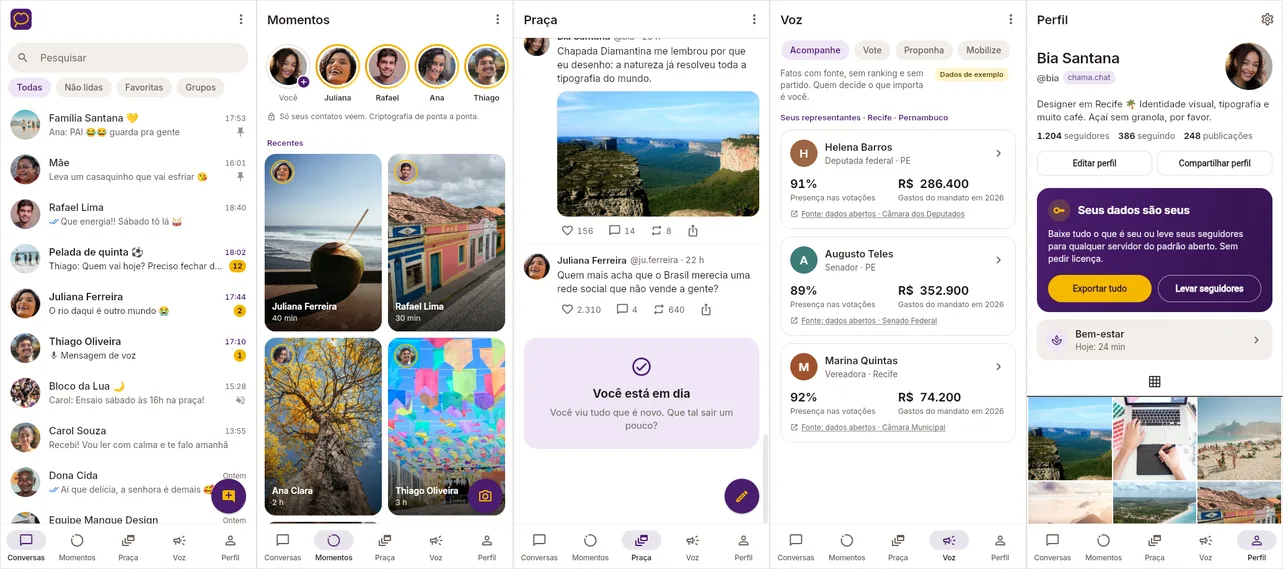
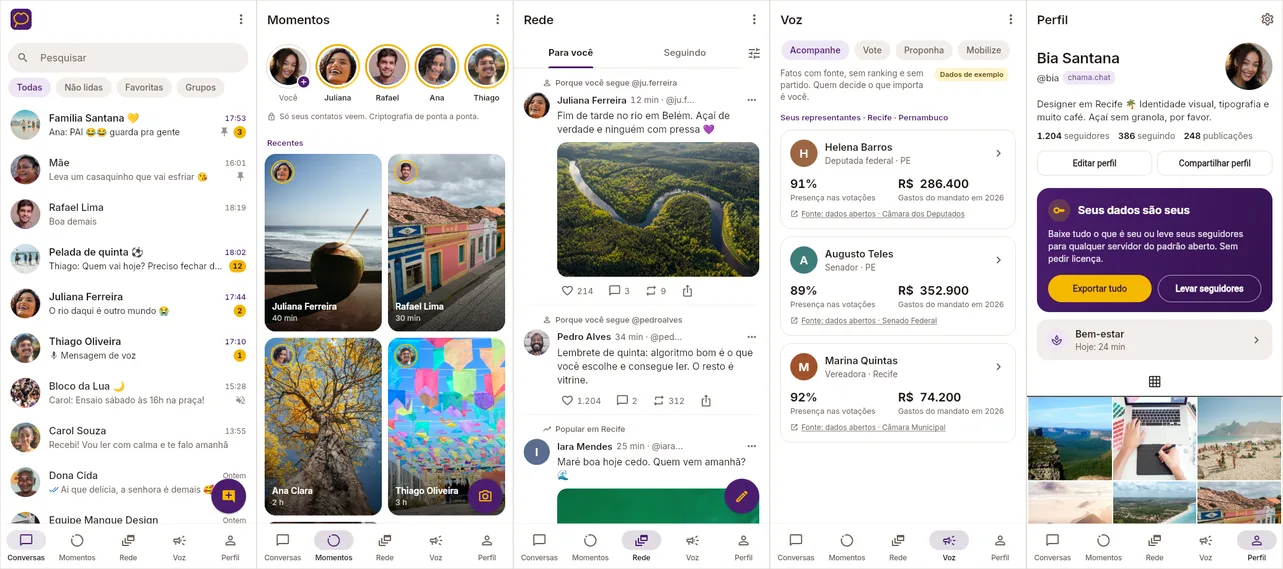
Document Rede, open recommendations and ads, and the new scenes

diff --git a/docs/desenvolvimento.md b/docs/desenvolvimento.md
@@ -326,12 +326,12 @@ WhatsApp Web:
 
 Uma versão do app com dados fictícios, para apresentações e para gravar os vídeos do
 projeto. Não precisa de servidor, já abre conectada como "Bia Santana" e mostra as cinco
-abas que o Chama terá: **Conversas**, **Momentos**, **Praça**, **Voz** e **Perfil**, além
+abas que o Chama terá: **Conversas**, **Momentos**, **Rede**, **Voz** e **Perfil**, além
 da tela **Bem-estar**. Roda só na web (as fotos ficam em `app/web/demo/`, com os créditos
 em `app/web/demo/CREDITS.md`).
 
 <p align="center">
-  <img src="imagens/demo-abas-claro.webp" alt="Modo demonstração: abas Conversas, Momentos, Praça, Voz e Perfil" width="760">
+  <img src="imagens/demo-abas-claro.webp" alt="Modo demonstração: abas Conversas, Momentos, Rede, Voz e Perfil" width="760">
 </p>
 
 ```sh
@@ -362,13 +362,29 @@ flowchart LR
   falsas de `ChatService`, `ChatSession` e companhia (`implements`), com pessoas, conversas,
   posts e momentos inventados.
 - As telas novas falam com três interfaces em `lib/services/`: `SocialService` (Momentos,
-  Praça, Perfil), `CivicService` (Voz) e `WellbeingService` (Bem-estar). Hoje só a
+  Rede, Perfil), `CivicService` (Voz) e `WellbeingService` (Bem-estar). Hoje só a
   demonstração implementa essas interfaces. No app de produção, `Deps.social`,
   `Deps.civic` e `Deps.wellbeing` ficam vazios e a tela inicial continua com as abas atuais.
 - **Voz** é apartidária: fatos com fonte ("Fonte: dados abertos"), nada ordenado por
   relevância, nenhuma cor de partido. Na demonstração, todos os políticos, projetos e
   números são inventados e as telas mostram "Dados de exemplo".
-- **Bem-estar**: a Praça tem fim ("Você está em dia"), há limite diário com um cartão de
+- **Rede** tem duas abas. **Para você** recomenda, mas nunca em segredo: cada item diz por
+  que está ali ("Porque você segue @ju.ferreira", "Perto de você · Boa Vista", "Tema:
+  comida"), e "Por que estou vendo isto?" tem "Mostrar mais/menos disso" e liga ou desliga o
+  tema. Em **Escolha seu algoritmo** a pessoa troca o algoritmo (Padrão Chama, Perto de você,
+  Só quem eu sigo ou feeds feitos pela comunidade) e os temas. **Seguindo** mostra só quem
+  você segue, do mais novo ao mais antigo, e termina em "Você está em dia".
+- A Rede mistura posts de texto, de foto e **vídeos curtos verticais (reels)**, que tocam
+  sem som enquanto estão na tela (pacote `video_player`) e abrem em tela cheia. Negócios
+  locais têm perfil comercial; há post em parceria (dois autores), selo "Parceria paga com
+  @marca" e anúncio marcado "Patrocinado", no máximo 1 a cada 10 itens
+  (`app/lib/feed/ads.dart`, com teste), escolhido só pelo tema, nunca pelas conversas.
+  Nunca há anúncio nas conversas nem nos Momentos. Marcas e criadores da demonstração são
+  inventados. Os vídeos vêm do Pixabay e do Pexels (créditos em `app/web/demo/CREDITS.md`).
+- O nome da aba Rede ainda não está decidido. Ele vem de uma chave só, `tabFeed`, em
+  `app/lib/l10n/app_pt.arb` (e `app_en.arb`): mude ali e a barra de baixo, o título e o
+  registro das cenas acompanham.
+- **Bem-estar**: a Rede tem fim ("Você está em dia", em Seguindo), há limite diário com um cartão de
   pausa, Modo descanso, Resumo de notificações, esconder curtidas e modo cinza. Sem
   sequências, medalhas ou culpa.
 - `lib/main.dart` nunca importa `lib/demo/`.
@@ -383,10 +399,11 @@ começo da pausa final de 2 s.
 |---|---|---|---|
 | `conversa` | `/?cena=conversa` | ~29 s | conversa privada, aviso de criptografia, foto, áudio, tiques azuis, reação |
 | `momentos` | `/?cena=momentos` | ~24 s | anéis, momento aberto, troca de pessoa, resposta |
-| `praca` | `/?cena=praca` | ~29 s | "sem algoritmo", curtir, responder, repostar, publicar com foto, "Você está em dia" |
+| `praca` | `/?cena=praca` | ~29 s | Rede · Para você: reel tocando, "Parceria paga", "Patrocinado" e "Por que este anúncio?", "Por que estou vendo isto?", reel em tela cheia, Seguindo até "Você está em dia" |
+| `algoritmo` | `/?cena=algoritmo` | ~19 s | "Escolha seu algoritmo": troca para um feed da comunidade, desliga um tema, o feed muda |
 | `voz` | `/?cena=voz` | ~27 s | ficha de um representante, consulta com identidade verificada, o povo x a Câmara, abaixo-assinado chegando à meta |
 | `dados` | `/?cena=dados` | ~24 s | exportar tudo e levar os seguidores para outro servidor |
-| `calma` | `/?cena=calma` | ~22 s | fim da Praça, limite diário, Modo descanso, curtidas escondidas, modo cinza, "Hora de uma pausa" |
+| `calma` | `/?cena=calma` | ~22 s | fim da Rede (Seguindo), limite diário, vídeos sem reprodução automática, Modo descanso, curtidas escondidas, modo cinza, "Hora de uma pausa" |
 | `tour` | `/?cena=tour` | ~85 s | as cinco abas e o Bem-estar em sequência |
 
 Os horários das mensagens seguem o relógio do computador. Para gravar sempre com horários

diff --git a/docs/design/2026-10-24-architecture.md b/docs/design/2026-10-24-architecture.md
@@ -8,7 +8,8 @@ O Chama é um mensageiro livre e de código aberto para o Brasil, com as funçõ
 do WhatsApp: um só app para Android, iOS, desktop e web (no estilo do WhatsApp Web), feito
 a partir de um único código. O Android sai primeiro. O Chama foi pensado para ser operado
 por uma organização pública e sem fins lucrativos (possivelmente um órgão público) sem que
-esse operador consiga ler mensagens, ranquear conteúdo ou censurar usuários em silêncio.
+esse operador consiga ler mensagens, ranquear conteúdo em segredo ou censurar usuários em
+silêncio.
 
 Este documento descreve como o sistema é montado e por quê. A visão de segurança em
 linguagem simples, para parceiros e instituições, está em
@@ -56,8 +57,12 @@ entrada estão em [API do chama-id](../chama-id-api.md).
 - Cadastro com número de celular e código por SMS, como no WhatsApp.
 - Um único app multiplataforma (Android primeiro; web, iOS e desktop do mesmo código), para
   que quem contribui trabalhe em uma só base de código.
-- Sem ranqueamento, sem algoritmo de feed, sem anúncios. As conversas aparecem só em ordem
-  de tempo.
+- Nada ranqueado em segredo (decisão de 2026-10-27). As conversas aparecem só em ordem de
+  tempo. O conteúdo recomendado (planejado, hoje só no modo demonstração) diz por que
+  aparece, usa um algoritmo de código aberto que a pessoa escolhe e controla, e a aba
+  Seguindo continua em ordem de chegada. Anúncios, quando houver, são marcados como
+  "Patrocinado", escolhidos só por tema, no máximo 1 a cada 10 itens, e nunca aparecem nas
+  conversas nem nos Momentos.
 - Todo o ambiente de desenvolvimento sobe na máquina local com um comando.
 - Protocolo aberto, para que outros operadores (universidades, estados, ONGs) possam rodar
   servidores compatíveis depois (federação, seção 13).

diff --git a/app/README.md b/app/README.md
@@ -50,7 +50,7 @@ flowchart TD
         group["group<br/>nova conversa, novo grupo, dados do grupo"]
         contacts["contacts<br/>agenda e sincronização"]
         profile["profile<br/>perfil, configurações, Seus dados são seus"]
-        feed["feed<br/>Praça: publicações em ordem de chegada"]
+        feed["feed<br/>Rede: Para você, Seguindo, reels, algoritmo"]
         stories["stories<br/>Momentos e o visualizador"]
         civic["civic<br/>Voz: representantes, consultas, abaixo-assinados"]
         wellbeing["wellbeing<br/>Bem-estar: tempo, limite, pausa, modo cinza"]
@@ -68,7 +68,7 @@ flowchart TD
 - `lib/services/`: o único código que fala com o SDK Matrix. Os widgets recebem modelos simples.
 - `lib/auth`, `lib/chat_list`, `lib/chat`, `lib/group`, `lib/contacts`, `lib/profile`,
   `lib/feed`, `lib/stories`, `lib/civic`, `lib/wellbeing`, `lib/common`: uma pasta por
-  funcionalidade. As abas Momentos, Praça, Voz e Perfil e a tela Bem-estar só aparecem
+  funcionalidade. As abas Momentos, Rede, Voz e Perfil e a tela Bem-estar só aparecem
   quando há os serviços delas em `Deps` (hoje, só no modo demonstração).
 - `lib/demo/` e `lib/main_demo.dart`: o modo demonstração, sem servidor (veja
   [Modo demonstração](../docs/desenvolvimento.md#modo-demonstração-sem-servidor)).
